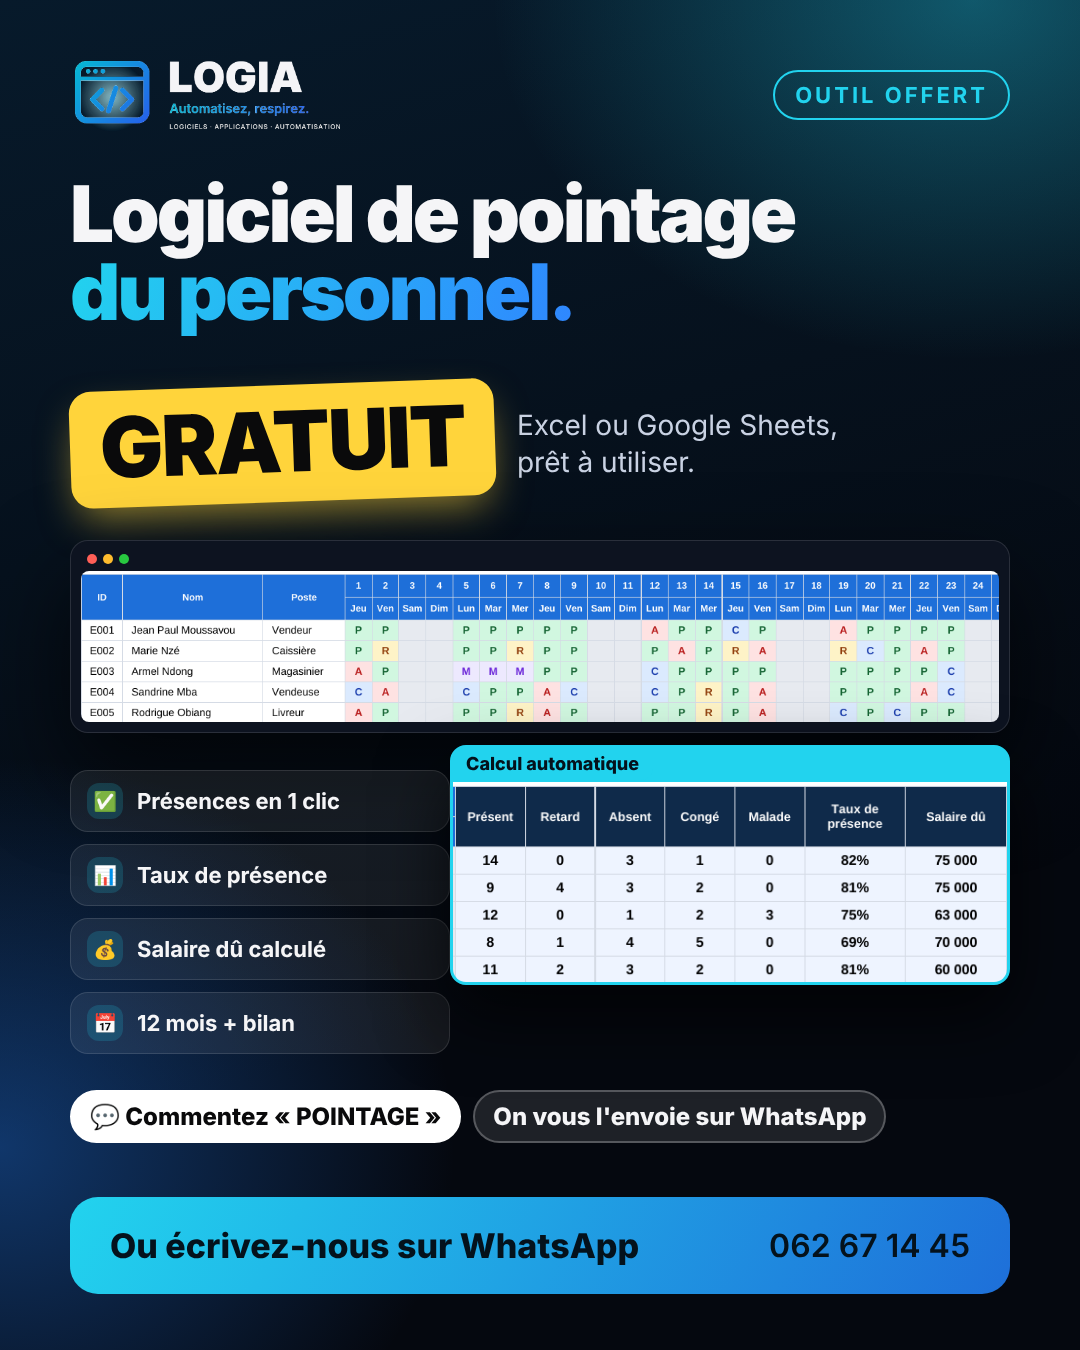
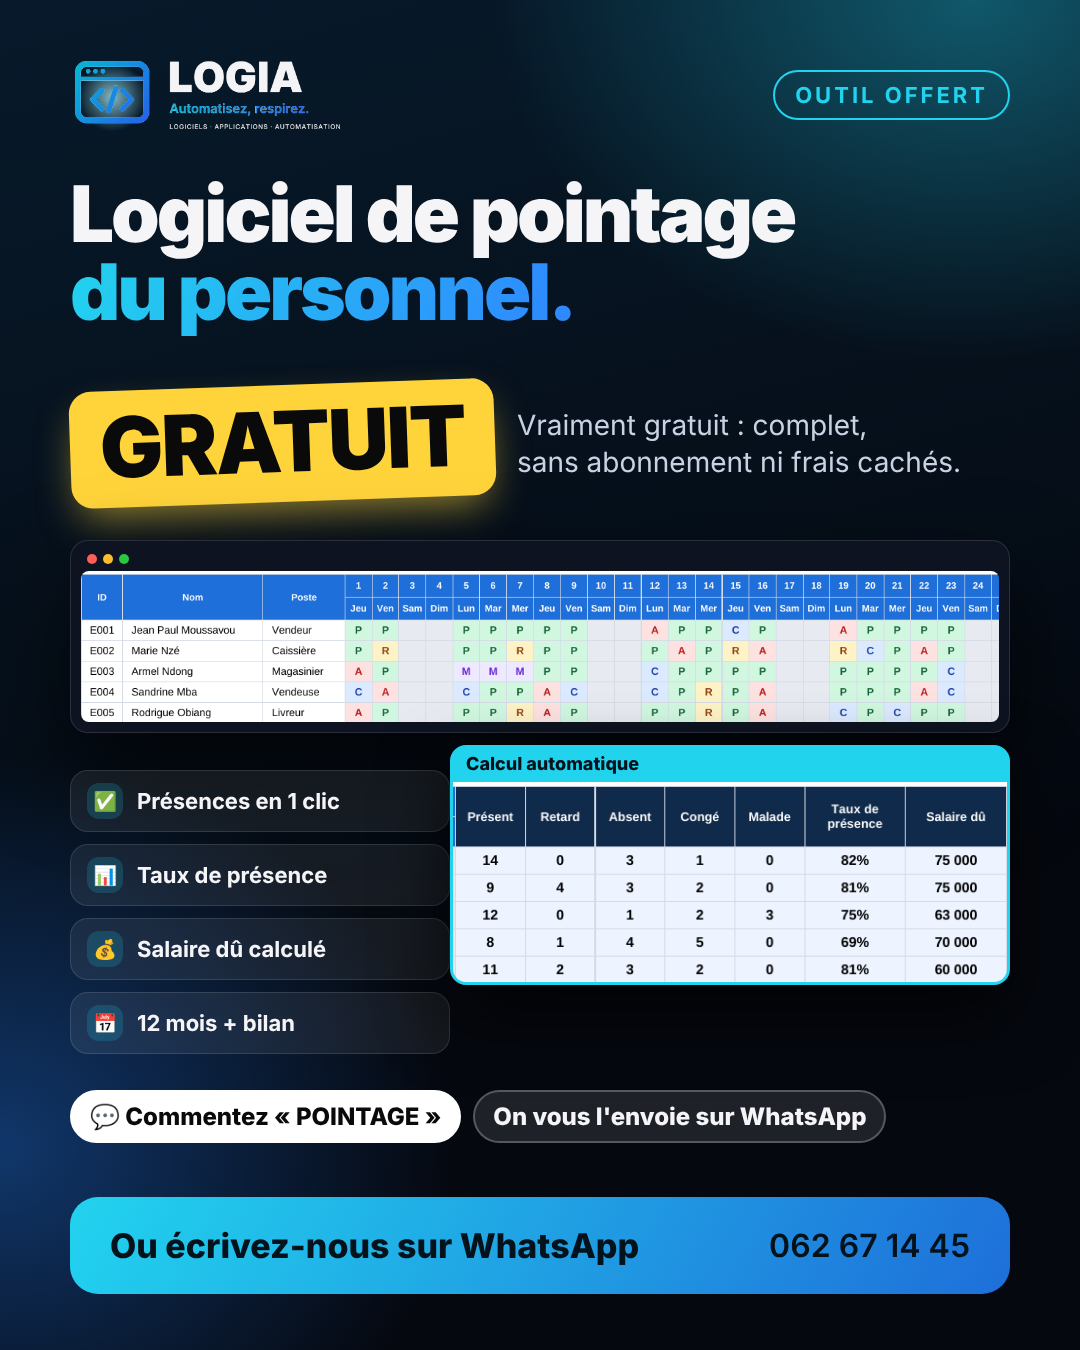
Pointage : affiche « vraiment gratuit » ; leçon de veille corrigée
Le logiciel « gratuit » du concurrent menait à une version payante.
L'affiche DWTS précise que l'outil est complet, sans abonnement ni frais
cachés, et le README note de ne jamais copier ce procédé.

Claude-Session: https://claude.ai/code/session_01KbGiktRWXap9n5rdpaZ3jT

Changed region(s): [[0.4889, 0.3111, 0.7944, 0.3733], [0.8556, 0.3422, 0.8861, 0.3733], [0.7944, 0.3422, 0.825, 0.3733]]

diff --git a/marketing/modeles/post-logia-4.html b/marketing/modeles/post-logia-4.html
@@ -23,7 +23,7 @@ h1 span{background:linear-gradient(110deg,#22D3EE,#2F86FF);-webkit-background-cl
 </style></head><body>
 <div class="top"><img src="assets/img/logo-logia-clair.png"><div class="tag">OUTIL OFFERT</div></div>
 <h1>Logiciel de pointage<br><span>du personnel.</span></h1>
-<div class="gratuit"><b>GRATUIT</b><span>Excel ou Google Sheets,<br>prêt à utiliser.</span></div>
+<div class="gratuit"><b>GRATUIT</b><span>Vraiment gratuit : complet,<br>sans abonnement ni frais cachés.</span></div>
 <div class="pc"><img src="marketing/outils-gratuits/capture-pointage-jours.png"></div>
 <div class="puces"><div><i>✅</i>Présences en 1 clic</div><div><i>📊</i>Taux de présence</div><div><i>💰</i>Salaire dû calculé</div><div><i>📅</i>12 mois + bilan</div></div>
 <div class="zoom"><img src="marketing/outils-gratuits/capture-pointage-totaux.png"></div>

diff --git a/marketing/README.md b/marketing/README.md
@@ -32,7 +32,7 @@ Ce dossier contient les outils qui fabriquent les publications de DWTS (affiches
 1. Noter ce que le concurrent **vend** et si DWTS le propose déjà (tarifs.html). Sinon, le signaler à Elie sans l'inventer.
 2. Faire la version DWTS **meilleure** : vraie capture ou vraie réalisation à la place des photos de banque d'images, un vrai prix visible, un seul bouton WhatsApp.
 3. Ne pas copier leurs défauts : statistiques sans source (« 80 % des PME… »), économies non prouvées, coordonnées en vrac, plusieurs boutons.
-4. Ce qui marche chez eux, à reprendre : outil concret montré à l'écran, offre gratuite utile (la page qui donne un logiciel de pointage gratuit fait 75 réactions, 22 commentaires, 15 partages ; les affiches à photo de banque d'images font 2 à 7 réactions), légende longue qui explique un problème puis pose une question.
+4. Ce qui marche chez eux, à reprendre : outil concret montré à l'écran, le mot « GRATUIT » avec une vraie capture d'outil (75 réactions, 22 commentaires, 15 partages ; les affiches à photo de banque d'images font 2 à 7 réactions). Attention : chez ce concurrent, le lien menait à une version payante. DWTS ne fait jamais ça : ce qui est annoncé gratuit est livré gratuit, en entier, légende longue qui explique un problème puis pose une question.
 5. Outil gratuit en place : logiciel de pointage (`marketing/outils-gratuits/`, affiche `post-logia-4`). Mot à commenter : « POINTAGE ».
 6. Modèles déjà faits en réponse : `post-logia-2` (logiciel de gestion), `post-logia-3` (bot WhatsApp), `post-visuo-3` (gestion de page Facebook). Styles communs : `_commun-concurrence.css`.
 
